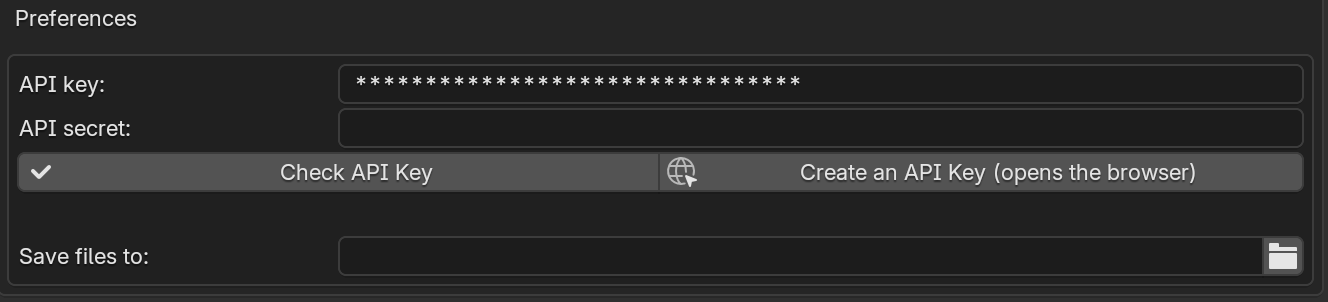
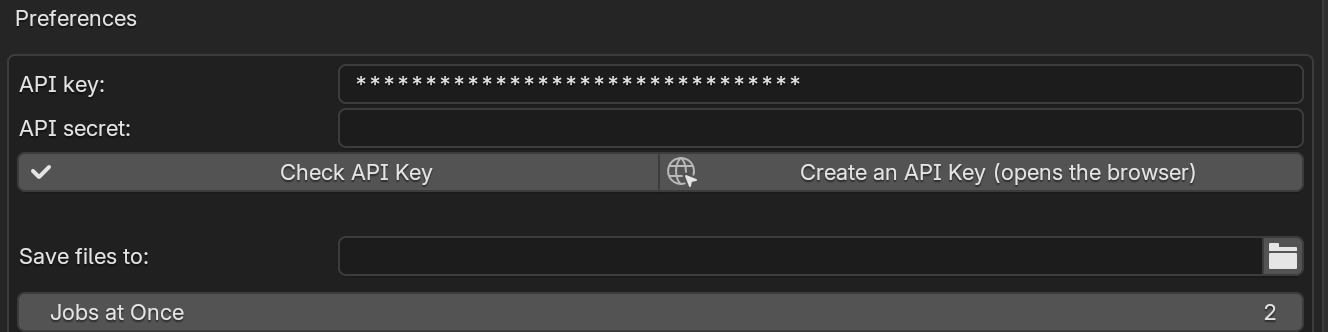
README and screenshots for 1.1.0

diff --git a/README.md b/README.md
@@ -4,93 +4,114 @@
 
 # Wiro AI 3D Generator for Blender
 
-Text to 3D and image to 3D in the 3D Viewport sidebar: Trellis-2, Pixal3D and Hunyuan3D-2.1 build a textured mesh on Wiro AI, and the add-on imports it into your scene as GLB.
+Text to 3D, image to 3D, textures and any of the 1,000+ Wiro AI models in the 3D Viewport sidebar, with the results brought into your scene.
 
-[![Blender 4.2+](https://img.shields.io/badge/Blender-4.2%2B-111111?style=for-the-badge&color=111111)](#install) [![CI](https://img.shields.io/github/actions/workflow/status/wiroai/Wiro-Blender/ci.yml?branch=main&style=for-the-badge&color=111111&label=CI)](https://github.com/wiroai/Wiro-Blender/actions/workflows/ci.yml) [![License: GPL-3.0-or-later](https://img.shields.io/badge/license-GPL--3.0--or--later-111111?style=for-the-badge&color=111111)](./LICENSE)
+[![Blender 4.2+](https://img.shields.io/badge/Blender-4.2%2B-111111?style=for-the-badge&color=111111)](#install) [![CI](https://img.shields.io/github/actions/workflow/status/wiroai/Wiro-Blender/ci.yml?branch=main&style=for-the-badge&color=111111&label=CI)](https://github.com/wiroai/Wiro-Blender/actions/workflows/ci.yml) [![Release](https://img.shields.io/github/v/release/wiroai/Wiro-Blender?style=for-the-badge&color=111111)](https://github.com/wiroai/Wiro-Blender/releases/latest) [![License: GPL-3.0-or-later](https://img.shields.io/badge/license-GPL--3.0--or--later-111111?style=for-the-badge&color=111111)](./LICENSE)
 
 [Website](https://wiro.ai) · [Models](https://wiro.ai/models) · [Docs](https://wiro.ai/docs) · [Dashboard](https://wiro.ai/panel)
 
 </div>
 
-The add-on adds a **Wiro AI** tab to the sidebar of the 3D Viewport. Describe an object or pick a picture of one, choose a 3D model and press **Generate 3D Model**. The model runs on [Wiro AI](https://wiro.ai), the panel follows the task with a progress bar, and the GLB lands at the 3D cursor with its PBR materials. Nothing runs on your GPU, and the add-on needs no extra Python packages.
+The add-on adds a **Wiro AI** tab to the sidebar of the 3D Viewport. Describe an object or pick pictures of it and get a textured 3D model at the 3D cursor. Put a texture on the selected objects from a prompt, or change the texture a model already has. Search the Wiro AI catalog and run any model with a form built from its settings. The models run on [Wiro AI](https://wiro.ai), so nothing runs on your GPU, and the add-on needs no extra Python packages.
 
-![A treasure chest made with Text to 3D: Nano Banana 2.1 drew the reference picture and Trellis-2 built the mesh](docs/screenshots/text-to-3d.png)
+![Text to 3D: Nano Banana 2.1 drew a red rotary telephone, the background was removed, and Trellis-2 built the mesh](docs/screenshots/text-to-3d.png)
 
 ## What it does
 
-- **Text to 3D.** An image model draws a reference picture of your prompt, one whole object on a plain background, then a 3D model builds the mesh from it. The picture appears in the panel while the mesh is being built.
-- **Image to 3D.** Upload a PNG, JPEG or WebP picture of one object.
-- **Three 3D models:** Microsoft Trellis-2, Tencent ARC Pixal3D and Tencent Hunyuan3D-2.1, with their resolution, texture size and face limit settings.
-- **Progress in the panel.** A progress bar, the task status and the step the model reports, such as "Generating 3D mesh" or "Exporting GLB". **Cancel** stops the task on Wiro AI.
-- **Imported with Blender's own glTF importer.** The model is placed at the 3D cursor, named after the 3D model and selected, and the import can be undone. Each object keeps the model, the task ID and the prompt as custom properties.
-- **Another model, same picture.** **Use in Image to 3D** sends the last reference picture to Image to 3D, so you can compare 3D models without drawing a new picture.
-- **Scripting.** In background mode (`blender -b`), `bpy.ops.wiro_ai.generate()` waits for the model, prints its progress and imports the result.
+- **Text to 3D.** An image model draws a reference picture of your prompt, one whole object on a plain background. The background can be removed with a background removal model, then a 3D model builds the mesh from the picture.
+- **Image to 3D.** Upload a PNG, JPEG or WebP picture of one object, or pick an image that is already in the .blend file. A model that takes several pictures gets several: HY-World 2.0 rebuilds a scene from a few photos and comes in as a colored point cloud.
+- **Textures.** Make a tileable texture from a prompt and put it on the selected objects as a material: the image model makes the base color, and the material derives a bump and a roughness from it. UV mapping or box projection, with tiling, bump and roughness settings.
+- **Edit Texture.** Change the base color texture of the active object with a prompt, for example to repaint a generated model. The texture keeps its UV layout.
+- **Run Any Model.** Search the catalog, pick a model, and fill in a form built from its settings. Pictures come in as images or textured planes, 3D files as objects, audio as sounds, video as movie clips and LLM answers as text blocks.
+- **Live model lists.** Each picker lists a Wiro AI category, so models that join the catalog show up without an add-on update. Each panel shows the price per run for the current settings before you press the button, and the header shows your wallet balance once it has been read.
+- **Queue.** Start several jobs; two run at the same time by default and the rest wait. Each one has a progress bar, the step the model reports and a Cancel button that stops the task on Wiro AI.
+- **Import options.** Place models at the 3D cursor or the world origin, put the origin at the bottom center or the bounds center, scale them or fit them to a size, collect them in a Wiro AI collection, and drop the empty parent a file brings.
+- **History.** Every finished run is kept with its files, prompt and cost: import a model again, apply a texture again, reuse a prompt or send a reference picture to Image to 3D.
+- **Scripting.** In background mode (`blender -b`), the operators wait for the models, print their progress and bring the results in.
 
 ## Install
 
-1. Download `wiro_ai-1.0.0.zip` from the [latest release](https://github.com/wiroai/Wiro-Blender/releases/latest).
+1. Download `wiro_ai-1.1.0.zip` from the [latest release](https://github.com/wiroai/Wiro-Blender/releases/latest).
 2. Drag the zip into Blender 4.2 or later. You can also open **Edit > Preferences > Get Extensions**, click the menu at the top right and choose **Install from Disk**.
 3. The models run online, so **Allow Online Access** has to be on (**Edit > Preferences > System > Network**). The panel tells you when it is off.
 
 ## Set your API key
 
-Create a project at [wiro.ai/panel/project/new](https://wiro.ai/panel/project/new) and copy its API key. Then open **Edit > Preferences > Add-ons > Wiro AI 3D Generator** and paste it into **API key**. If the project uses signature-based authentication, paste the API secret too. **Check API Key** asks Wiro AI whether the key works, which is free.
+Create a project at [wiro.ai/panel/project/new](https://wiro.ai/panel/project/new) and copy its API key. Then open **Edit > Preferences > Add-ons > Wiro AI 3D Generator** and paste it into **API key**. If the project uses signature-based authentication, paste the API secret too. **Check API Key** asks Wiro AI whether the key works and reads your wallet balance, which is free.
 
-![The add-on preferences: API key, API secret and the folder for generated files](docs/screenshots/preferences.png)
+![The add-on preferences: API key, API secret, the folder for generated files and how many jobs run at once](docs/screenshots/preferences.png)
 
 The key stays in Blender's preferences, never in your .blend files, and it is only sent to `api.wiro.ai`. You can also set `WIRO_API_KEY` (and `WIRO_API_SECRET`) in the environment before you start Blender. The add-on uses them when the preferences are empty.
 
-**Save files to** sets where GLB files and reference pictures go. A path that starts with `//` is relative to the open .blend file. Left empty, files go to the add-on's own folder in your Blender user directory.
+**Save files to** sets where generated files go. A path that starts with `//` is relative to the open .blend file. Left empty, files go to the add-on's own folder in your Blender user directory. **Jobs at Once** sets how many jobs run at the same time.
 
-## Use it
+## The panels
 
 Press **N** in the 3D Viewport to open the sidebar and click the **Wiro AI** tab.
 
-**Text to 3D:** write a prompt, for example *a weathered wooden treasure chest with iron bands and a brass lock*, pick the image model and the 3D model, and press **Generate 3D Model**. **Frame for 3D** (on by default) adds a short instruction to the prompt that asks for one whole object, centered on a plain background, which is what image-to-3D models work best with.
+### 3D Model
 
-![Text to 3D in progress: the reference picture is ready and Trellis-2 is building the mesh](docs/screenshots/progress.png)
+Choose **Text to 3D** or **Image to 3D**. For Text to 3D, write a prompt, for example *a red vintage rotary telephone*, and pick the image model. **Frame for 3D** (on by default) adds a short instruction that asks for one whole object, centered on a plain background, which is what image-to-3D models work best with. **Remove Background** adds a background removal step before the 3D model. Then pick the 3D model and press **Generate 3D Model**. Each model shows its own settings, with the ones that matter most in Blender up front and the rest under **More Options**.
 
-**Image to 3D:** pick a picture of one object. A plain background works best, and the 3D models cut the object out themselves.
+![Image to 3D with HY-World 2.0: two pictures in, a colored point cloud out](docs/screenshots/multi-image.png)
 
-![Image to 3D with Pixal3D, using the reference picture from the Text to 3D run](docs/screenshots/image-to-3d.png)
+### Texture
 
-You can keep working in Blender while a model runs. When it finishes, the panel shows the face count, how long the run took and what it cost.
+**New Texture** makes a texture from a prompt, for example *mossy cobblestone*, and puts it on every selected object. **Tileable** asks for a seamless texture. Under **Material** you set the mapping (Auto uses the UV map when there is one and box projection otherwise), the tiling, the bump strength and the base roughness, and whether the new material replaces the old ones.
+
+![New Texture: a tileable mossy cobblestone texture on a cube](docs/screenshots/texture.png)
+
+**Edit Texture** sends the base color texture of the active object to an image editing model with your prompt and puts the result in its place. The material is copied first if other objects share it, and Undo brings the old texture back.
+
+![Edit Texture: the telephone repainted emerald green, with the dial and the chrome parts kept](docs/screenshots/edit-texture.png)
+
+### Run Any Model
+
+Type a few words, pick a category if you like and press the arrow. Pick a model from the list and its settings appear as a form; required settings have a star. Long prompts and JSON can come from a text block in the Text Editor. File settings take local files, https URLs or images from the .blend file.
+
+![Run Any Model: the search list, the form of an LLM, and its answer in a text block](docs/screenshots/run-any-model.png)
+
+### Queue and History
+
+The Queue panel lists running and waiting jobs with their progress, the step the model reports and a preview of the latest picture, so you can, for example, send one picture to several 3D models and compare what comes back. The History panel keeps every finished run, newest first, with what it made, how long it took and what it cost.
+
+![The Queue panel: Trellis-2 and Pixal3D build a mesh from the same picture at the same time](docs/screenshots/queue.png)
 
 ## Models
 
-| 3D model | Made by | Settings in the panel | Model page |
+The pickers list the Wiro AI catalog by category, so this table is the starting point rather than the full list.
+
+| Panel | Category | Starts with | Also listed today |
 | --- | --- | --- | --- |
-| **Trellis-2** | Microsoft | resolution 512, 1024 or 1536, texture size 1024 to 8192, face limit | [microsoft/trellis-2](https://wiro.ai/models/microsoft/trellis-2) |
-| **Pixal3D** | Tencent ARC | resolution 1024 or 1536, texture size 1024 to 8192, face limit | [tencentarc/pixal3d](https://wiro.ai/models/tencentarc/pixal3d) |
-| **Hunyuan3D-2.1** | Tencent | textures on or off, face limit up to 200,000, octree resolution, background removal | [tencent/hunyuan3d-2-1](https://wiro.ai/models/tencent/hunyuan3d-2-1) |
+| 3D Model | 3D generation | [Trellis-2](https://wiro.ai/models/microsoft/trellis-2) (Microsoft) | [Pixal3D](https://wiro.ai/models/tencentarc/pixal3d), [Hunyuan3D-2.1](https://wiro.ai/models/tencent/hunyuan3d-2-1), [HY-World 2.0](https://wiro.ai/models/tencent/hy-world-2-0-world-reconstruction) for several pictures |
+| Reference picture, New Texture | Text to image | [Nano Banana 2.1](https://wiro.ai/models/google/nano-banana-2-1) (Google) | [GPT Image 2.6 Flare](https://wiro.ai/models/openai/gpt-image-2-6-flare) and more than 30 others |
+| Edit Texture | Image editing | [Nano Banana 2.1](https://wiro.ai/models/google/nano-banana-2-1) (Google) | [GPT Image 2.6 Flare](https://wiro.ai/models/openai/gpt-image-2-6-flare) and more than 30 others |
+| Remove Background | Background removal | [Remove Background](https://wiro.ai/models/wiro/remove-background) (Wiro) | [RMBG 2.0](https://wiro.ai/models/briaai/rmbg-2-0), [BiRefNet](https://wiro.ai/models/zhengpeng7/birefnet), [Ideogram Remove Background](https://wiro.ai/models/ideogram/remove-background) |
+| Run Any Model | Every category | | 1,000+ models for images, video, audio, 3D and LLMs |
 
-| Image model (Text to 3D) | Made by | Output | Model page |
-| --- | --- | --- | --- |
-| **Nano Banana 2.1** | Google | 1024 x 1024 PNG | [google/nano-banana-2-1](https://wiro.ai/models/google/nano-banana-2-1) |
-| **GPT Image 2.6 Flare** | OpenAI | 1024 x 1024 PNG with a transparent background | [openai/gpt-image-2-6-flare](https://wiro.ai/models/openai/gpt-image-2-6-flare) |
-
-The 3D models return a GLB with PBR materials; Hunyuan3D-2.1 with textures off returns a plain white mesh. **Seed**, under **More options**, repeats a result for the same inputs, and 0 picks a random seed.
-
-These five come from the Wiro AI catalog of 1,000+ models for images, video, audio, 3D and LLMs at [wiro.ai/models](https://wiro.ai/models).
+For the 3D models the panel starts with settings that suit Blender: a 200,000 face limit and 2048 pixel textures for Trellis-2 and Pixal3D, and a 200,000 face limit for Hunyuan3D-2.1. **Reset Settings** under **More Options** puts a model's settings back.
 
 ## Scripting
 
-The panel settings live on the scene as `bpy.context.scene.wiro_ai`, so a script can set them and call the operator:
+The panel settings live on the scene as `bpy.context.scene.wiro_ai`, so a script can set them and call the operators. Models are picked by their slug:
 
 ```python
 import bpy
 
 settings = bpy.context.scene.wiro_ai
-settings.mode = "TEXT"  # or "IMAGE", with settings.image_path
+settings.mode = "TEXT"  # or "IMAGE", with settings.images
 settings.prompt = "a ceramic teapot with a blue floral pattern"
-settings.image_model = "NANO_BANANA_2_1"  # or "GPT_IMAGE_2_6_FLARE"
-settings.mesh_model = "TRELLIS_2"  # or "PIXAL3D", "HUNYUAN3D_2_1"
-settings.trellis_resolution = "1024_cascade"
+settings.reference_model = "google/nano-banana-2-1"
+settings.mesh_model = "microsoft/trellis-2"
+settings.use_cutout = True
 bpy.ops.wiro_ai.generate()
+
+settings.texture_prompt = "polished walnut wood"
+bpy.ops.wiro_ai.generate_texture()  # on the selected objects
 bpy.ops.wm.save_as_mainfile(filepath="teapot.blend")
 ```
 
-In background mode the operator returns once the model is imported. `--online-mode` allows network access for that run:
+In background mode each operator returns once its result is in the scene. `--online-mode` allows network access for that run:
 
 ```bash
 WIRO_API_KEY=your-api-key blender --background --online-mode --python teapot.py
@@ -98,24 +119,29 @@ WIRO_API_KEY=your-api-key blender --background --online-mode --python teapot.py
 
 ## How it works
 
-- Each run is a `POST /v1/Run/{owner}/{model}` request with multipart form data ([Run a Model](https://wiro.ai/docs/run-a-model)). In Text to 3D the 3D model receives the URL of the reference picture; in Image to 3D it receives your file.
-- The add-on polls `Task/Detail` every 3 seconds until the task reaches `task_postprocess_end`, checks the exit code and downloads the GLB ([Tasks](https://wiro.ai/docs/tasks)). When a model returns a textured and an untextured GLB, the textured one is imported.
-- The network work runs on a background thread. A timer on Blender's main thread redraws the panel and runs the import, so the interface stays responsive.
-- Nothing is sent until you press **Generate 3D Model** or **Check API Key**, and nothing is sent while Allow Online Access is off. Output files are downloaded without your key.
+- Each run is a `POST /v1/Run/{owner}/{model}` request with multipart form data ([Run a Model](https://wiro.ai/docs/run-a-model)). A step passes the URL of its result to the next one: the reference picture to the background removal model, the cutout to the 3D model.
+- The add-on polls `Task/Detail` every 3 seconds until the task reaches `task_postprocess_end`, checks the exit code and downloads the outputs ([Tasks](https://wiro.ai/docs/tasks)). When a model returns a textured and an untextured GLB, the textured one is imported.
+- Model lists come from `Tool/List` by category and model settings from `Tool/Detail`. Both are public, so the add-on reads them without your key and caches them; a copy ships with the add-on for the first start and for offline use. The price before a run follows the model's price list the way Wiro AI bills it.
+- The network work runs on background threads. A timer on Blender's main thread redraws the panels and brings results into the scene, so the interface stays responsive.
+- Runs start only when you press a run button. While Allow Online Access is off nothing is sent at all. Output files are downloaded without your key, and the history file never holds it.
 
-The extension asks Blender for two permissions: **network**, to send prompts and images to Wiro AI and download the models, and **files**, to read input images and save the generated GLB files.
+The extension asks Blender for two permissions: **network**, to send prompts and files to Wiro AI and download the results, and **files**, to read input files and save the results.
 
 ```
 wiro_ai/            the extension, packaged with "blender --command extension build"
   api.py            Wiro AI REST client, standard library only
-  catalog.py        models, settings and prices
-  pipeline.py       one generation job on a worker thread
-  runtime.py        timer, import and previews on the main thread
-  ui.py             sidebar panel and operators
-  preferences.py    API key and output folder
-  properties.py     panel settings, stored per scene
-  importer.py       GLB import with Blender's glTF importer
+  schema.py         a model's settings from Tool/Detail, and the Run fields
+  pricing.py        the price of a run for given settings
+  catalog.py        model lists by category, cached, with the shipped copy in data/
+  pipeline.py       jobs: one or more model runs in a row, on a worker thread
+  runtime.py        queue, timer, history and catalog refreshes on the main thread
+  forms.py          settings forms built from schemas, and the model pickers
+  importer.py       3D files, point clouds, pictures, sound, video and text
+  materials.py      textures as materials, and texture edits
+  operators.py      the operators behind the buttons
+  ui.py             the sidebar panels
 tests/              unit tests and the scripts that run inside Blender
+scripts/            update_catalog.py refreshes the shipped catalog copy
 ```
 
 ## Development
@@ -136,28 +162,29 @@ mkdir -p dist
 blender --command extension build --source-dir wiro_ai --output-dir dist
 ```
 
-The smoke test installs the package and runs both modes through the real operator against a fake Wiro AI API, without network access:
+The smoke test installs the package and runs every panel through its real operator against a fake Wiro AI API, without network access:
 
 ```bash
-blender --command extension install-file -r user_default dist/wiro_ai-1.0.0.zip
+blender --command extension install-file -r user_default dist/wiro_ai-1.1.0.zip
 blender --background --factory-startup --python-exit-code 1 --python tests/blender/smoke_test.py -- tests/fixtures/cube.glb
 ```
 
-`tests/blender/live_test.py` makes one real generation and is billed to the key's wallet, so it stays out of CI. CI runs lint and the unit tests on Python 3.11 and 3.13, and the manifest check, build and smoke test on Blender 4.2.23 and 5.3.0.
+`tests/blender/live_test.py` makes real runs and is billed to the key's wallet, so it stays out of CI. CI runs lint and the unit tests on Python 3.11 and 3.13, and the manifest check, build and smoke test on Blender 4.2.23 and 5.3.0. `python scripts/update_catalog.py` refreshes `wiro_ai/data/catalog.json` from the public catalog.
 
 ## Pricing
 
-Each run is billed to the Wiro AI wallet of the API key's project at the model's price. The panel shows the price of the current settings above the Generate button, and the cost of each finished run.
+Each run is billed to the Wiro AI wallet of the API key's project at the model's price. Every panel shows the price for its current settings above its button, and the History panel shows what each finished run cost. Some examples:
 
 | Model | Price per run |
 | --- | --- |
 | Trellis-2 | $0.25 at 512, $0.30 at 1024, $0.35 at 1536 |
 | Pixal3D | $0.30 at 1024, $0.42 at 1536 |
 | Hunyuan3D-2.1 | $0.90 with textures, $0.30 without |
-| Nano Banana 2.1 (Text to 3D) | $0.0336 per picture |
-| GPT Image 2.6 Flare (Text to 3D) | $0.043 per picture |
+| HY-World 2.0 | by run time, a few cents for a few pictures |
+| Nano Banana 2.1 (reference picture, texture, texture edit) | $0.0336 at 1K |
+| Remove Background | by run time, about a tenth of a cent |
 
-A Text to 3D run costs the picture plus the 3D model, for example $0.3336 for Nano Banana 2.1 with Trellis-2 at 1024. The model pages on wiro.ai list the current prices.
+A Text to 3D run costs the picture plus the 3D model, for example $0.3342 for Nano Banana 2.1, Remove Background and Trellis-2 at 1024. The model pages on wiro.ai list the current prices.
 
 ## More from Wiro AI
 
